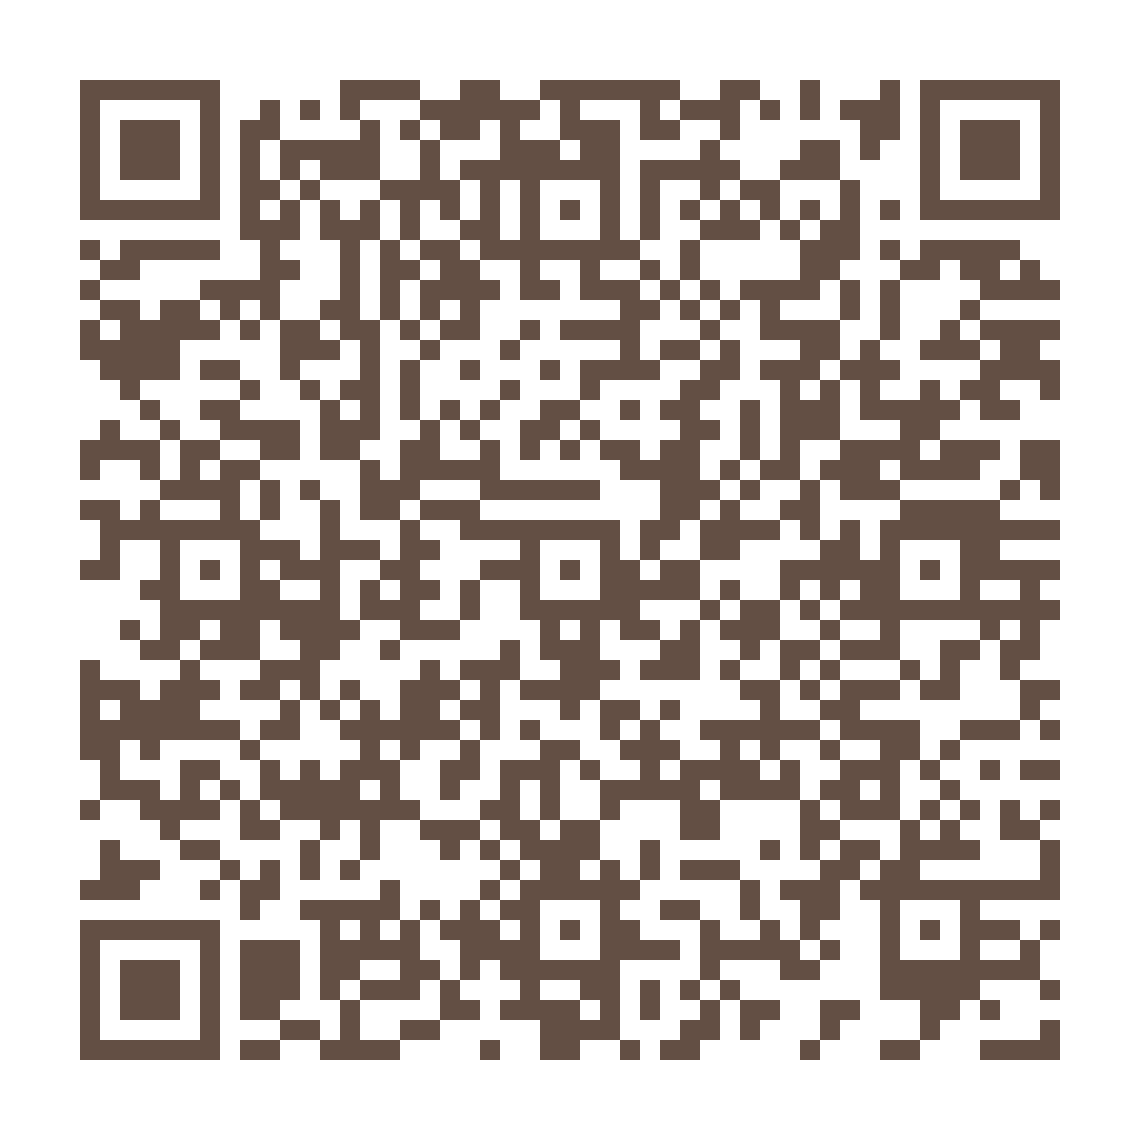
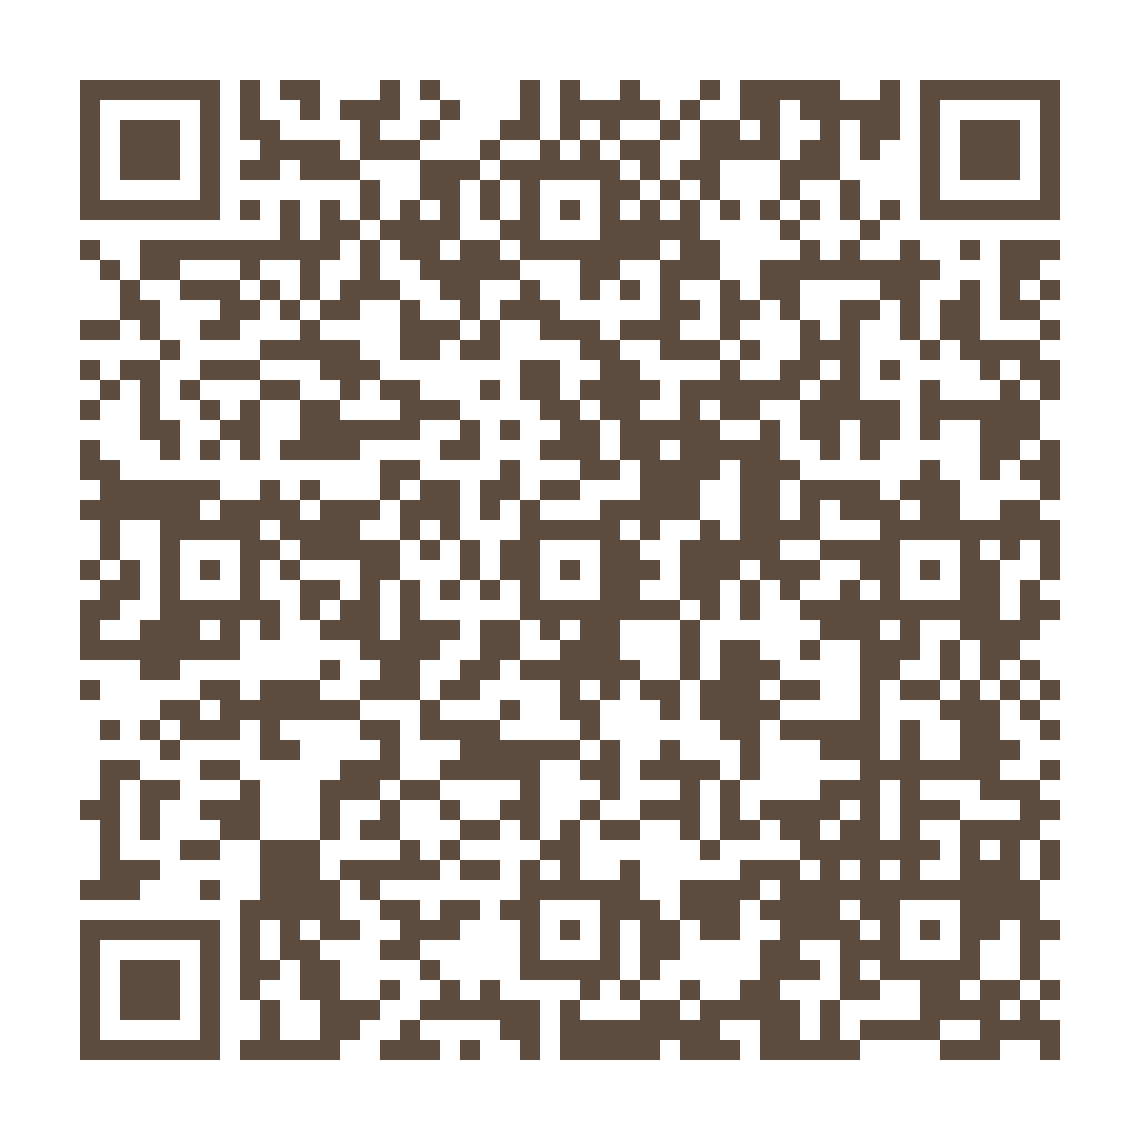
Regenerate QR codes for the final-color videos
Claude-Session: https://claude.ai/code/session_01J3d7gVafsjhzFvyDQJzWAj

Changed region(s): [[0.0614, 0.0614, 0.9518, 0.9518]]

diff --git a/xiangban-motion/HANDOFF.md b/xiangban-motion/HANDOFF.md
@@ -16,7 +16,7 @@
 | 無聲影片／GIF | `xiangban-light.mp4`、`xiangban-dark.mp4`、`xiangban-light.gif`、`xiangban-dark.gif`、`xiangban-hands-closeup.gif` |
 | 音效 | `sound/xiangban.wav`、`sound/xiangban.mp3` |
 | 透明背景 GIF（簡報用） | `transparent/xiangban-light-transparent-loop.gif`（放淺色投影片）、`transparent/xiangban-dark-transparent-loop.gif`（放深色投影片），兩者字色相同，只有邊緣混色不同；`-once` 版本只播一次 |
-| 影片 QR code | `qrcode/`：掃描後在手機瀏覽器直接播放有聲影片；連結見 `qrcode/links.txt`（固定指向 commit cd1ed46 的影片，之後改動不會影響） |
+| 影片 QR code | `qrcode/`：掃描後在手機瀏覽器直接播放有聲影片；連結見 `qrcode/links.txt`（固定指向 commit 3935d3b 的影片（最終色版），之後改動不會影響） |
 | 逐格對照圖 | `frames-contact-sheet.png`（回饋時可用格數指出位置） |
 
 ## 標準字色彩（最終版）
